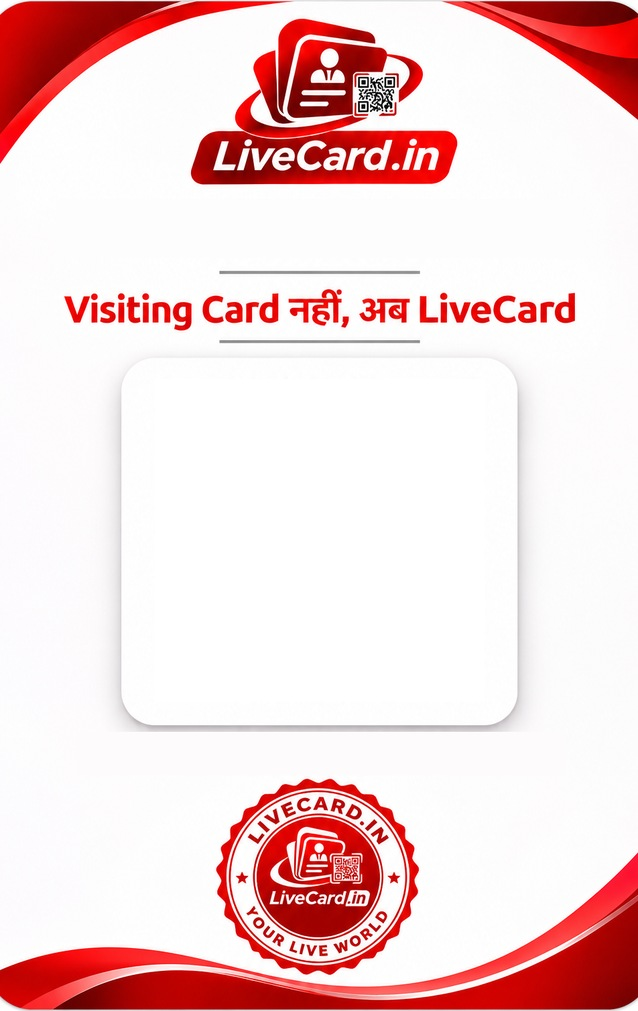
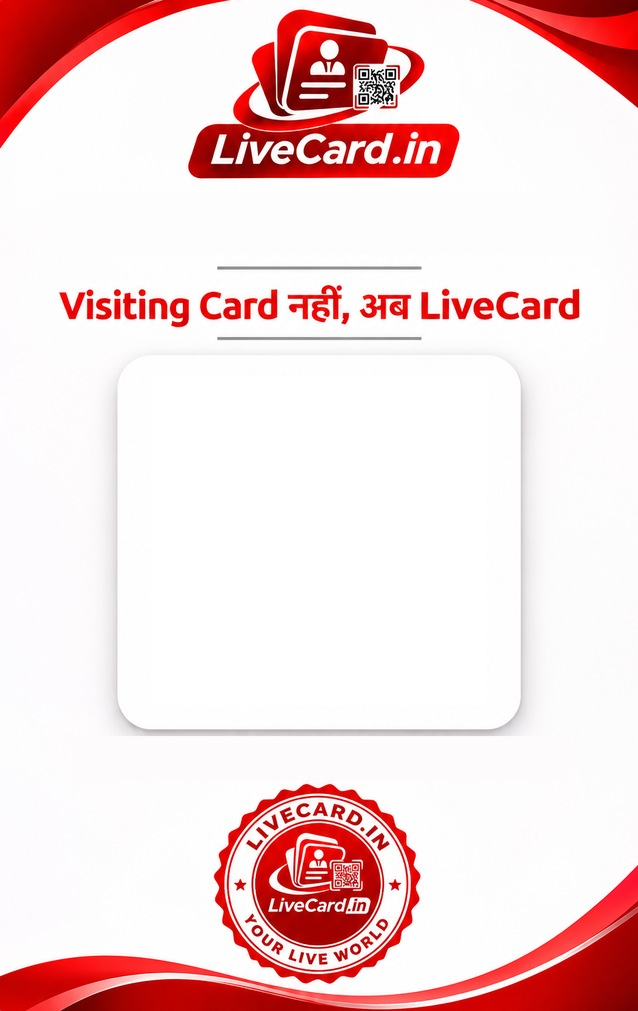
Print Card: clean edges/corners, smaller name/QR/link
Claude-Session: https://claude.ai/code/session_01LzXEQdxikn33sAgkPaq1Gs

diff --git a/public/studio/index.html b/public/studio/index.html
@@ -1314,7 +1314,7 @@ function qrFull(x){var o=document.getElementById('qrfull');if(o)o.remove();var u
   var ln=mk('div','',u.replace(/^https?:\/\//,'').replace('?src=qr',''));ln.style.cssText='font-size:14px;color:#666;word-break:break-all';bd.appendChild(ln);
   var st=document.createElement('img');st.src='/studio/livecard-stamp.png';st.alt='';st.style.cssText='width:96px;height:auto;margin-top:6px;opacity:.95';bd.appendChild(st);
   var dl=tb('⬇ QR डाउनलोड',function(){var du=cv.toDataURL('image/png');if(window.ViNative&&ViNative.save){var r='';try{r=ViNative.save(du.split(',')[1],'livecard-qr-'+Date.now())}catch(e){}dl.textContent=r?'✅ गैलरी में सेव हुआ':'❌ सेव नहीं हुआ';setTimeout(function(){dl.textContent='⬇ QR डाउनलोड'},2500);return}var a=document.createElement('a');a.href=du;a.download='livecard-qr.png';document.body.appendChild(a);a.click();a.remove()});dl.style.cssText+=';background:#fff;color:#d4141c;border:1.5px solid #d4141c;margin-top:4px';bd.appendChild(dl);var cw=mk('div','','Created with LiveCard.in');cw.style.cssText='font-size:15px;font-weight:800;color:#7a0a10;letter-spacing:.3px;margin:6px 0 14px';bd.appendChild(cw);
-  try{sb.rpc('studio_is_admin').then(function(r){if(!(r&&r.data===true))return;var pb=tb('📄 PDF (कार्ड साइज़) · Admin',async function(){pb.disabled=true;pb.textContent='⏳ बन रहा है…';try{if(!window.LCPrint){await new Promise(function(res,rej){var s2=document.createElement('script');s2.src='/studio/printcard.js?v=4';s2.onload=res;s2.onerror=rej;document.head.appendChild(s2)})}var rr2=await LCPrint.pdf([x],'livecard-'+x.slug);pb.textContent=rr2==='saved'?'✅ PDF सेव हुआ':rr2==='png'?'✅ गैलरी में सेव (फ़ोटो)':'❌ नहीं हुआ'}catch(e){pb.textContent='❌ नहीं हुआ'}pb.disabled=false;setTimeout(function(){pb.textContent='📄 PDF (कार्ड साइज़) · Admin'},3000)});pb.style.cssText+=';background:#7a0a10;margin-top:4px';bd.insertBefore(pb,dl.nextSibling);var pl=document.createElement('a');pl.href='/studio/printcard/';pl.textContent='🖨 सभी कार्ड प्रिंट करें';pl.style.cssText='color:#7a0a10;font-weight:700';bd.insertBefore(pl,pb.nextSibling)})}catch(e){}
+  try{sb.rpc('studio_is_admin').then(function(r){if(!(r&&r.data===true))return;var pb=tb('📄 PDF (कार्ड साइज़) · Admin',async function(){pb.disabled=true;pb.textContent='⏳ बन रहा है…';try{if(!window.LCPrint){await new Promise(function(res,rej){var s2=document.createElement('script');s2.src='/studio/printcard.js?v=5';s2.onload=res;s2.onerror=rej;document.head.appendChild(s2)})}var rr2=await LCPrint.pdf([x],'livecard-'+x.slug);pb.textContent=rr2==='saved'?'✅ PDF सेव हुआ':rr2==='png'?'✅ गैलरी में सेव (फ़ोटो)':'❌ नहीं हुआ'}catch(e){pb.textContent='❌ नहीं हुआ'}pb.disabled=false;setTimeout(function(){pb.textContent='📄 PDF (कार्ड साइज़) · Admin'},3000)});pb.style.cssText+=';background:#7a0a10;margin-top:4px';bd.insertBefore(pb,dl.nextSibling);var pl=document.createElement('a');pl.href='/studio/printcard/';pl.textContent='🖨 सभी कार्ड प्रिंट करें';pl.style.cssText='color:#7a0a10;font-weight:700';bd.insertBefore(pl,pb.nextSibling)})}catch(e){}
   o.appendChild(bd);document.body.style.overflow='hidden';document.body.appendChild(o)}
 function hqrInit(){var b=$('hqr');if(!b)return;b.hidden=!qrCard();b.onclick=function(){var x=qrCard();if(!x){alert('पहले कार्ड प्रकाशित करें।');return}qrFull(x)}}
 async function myHome(){try{hqrInit()}catch(e){}try{pfPlan()}catch(e){}try{pfSett()}catch(e){}try{$('pf-cardact').textContent=''}catch(e){}

diff --git a/public/studio/printcard.js b/public/studio/printcard.js
@@ -8,17 +8,17 @@ function rr(ctx,x,y,w,h,r){ctx.beginPath();ctx.moveTo(x+r,y);ctx.arcTo(x+w,y,x+w
 function nameOf(c){var t=String(c.title||'').trim();return (!t||/^(visiting\s*card|विज़िटिंग\s*कार्ड|विजिटिंग\s*कार्ड)$/i.test(t))?'LiveCard':t}
 async function draw(c){var cv=document.createElement('canvas');cv.width=W;cv.height=H;var x=cv.getContext('2d');
   var url='https://livecard.in/v/'+c.slug;
-  var bg=await img('/studio/livecard-card-front.jpg?v=2');
+  var bg=await img('/studio/livecard-card-front.jpg?v=3');
   if(bg)x.drawImage(bg,0,0,W,H);else{x.fillStyle='#fff';x.fillRect(0,0,W,H)}
   x.textAlign='center';x.textBaseline='middle';
-  var nm=nameOf(c);fit(x,nm,470,62,'800');x.fillStyle='#7a0a10';x.fillText(nm,W/2,230);
+  var nm=nameOf(c);fit(x,nm,440,50,'800');x.fillStyle='#7a0a10';x.fillText(nm,W/2,224);
   var q=document.createElement('canvas');window.StudioQR.draw(q,url,1200);var qx=q.getContext('2d'),qd=qx.getImageData(0,0,q.width,q.height).data,fx=0,mid=0;
   for(var yy=0;yy<q.height&&!fx;yy++){for(var xx=0;xx<q.width;xx++){if(qd[(yy*q.width+xx)*4]<128){fx=xx;mid=yy;break}}}
   var qz=fx||Math.round(q.width*4/41),inner=q.width-2*qz;
-  x.imageSmoothingEnabled=false;var qs=320;x.drawImage(q,qz,qz,inner,inner,(W-qs)/2,540-qs/2,qs,qs);x.imageSmoothingEnabled=true;
-  var ln=url.replace(/^https?:\/\//,'');fit(x,ln,390,38,'700');x.fillStyle='#333';x.fillText(ln,W/2,753);
+  x.imageSmoothingEnabled=false;var qs=292;x.drawImage(q,qz,qz,inner,inner,(W-qs)/2,541-qs/2,qs,qs);x.imageSmoothingEnabled=true;
+  var ln=url.replace(/^https?:\/\//,'');fit(x,ln,370,31,'700');x.fillStyle='#333';x.fillText(ln,W/2,757);
   return cv}
-var _bk=null;async function back(){if(_bk)return _bk;var b=await img('/studio/livecard-card-back.jpg?v=2');if(!b)return null;var cv=document.createElement('canvas');cv.width=W;cv.height=H;var x=cv.getContext('2d');
+var _bk=null;async function back(){if(_bk)return _bk;var b=await img('/studio/livecard-card-back.jpg?v=3');if(!b)return null;var cv=document.createElement('canvas');cv.width=W;cv.height=H;var x=cv.getContext('2d');
   x.translate(W/2,H/2);x.rotate(-Math.PI/2);x.drawImage(b,-H/2,-W/2,H,W);_bk=cv.toDataURL('image/jpeg',0.95);return _bk}
 function loadPdf(){return new Promise(function(res,rej){if(window.jspdf)return res(window.jspdf);var s=document.createElement('script');s.src='https://cdnjs.cloudflare.com/ajax/libs/jspdf/2.5.1/jspdf.umd.min.js';s.onload=function(){res(window.jspdf)};s.onerror=rej;document.head.appendChild(s)})}
 async function pdf(cards,name){var J=await loadPdf();var doc=new J.jsPDF({unit:'mm',format:[53.98,85.6],orientation:'portrait',compress:true});

diff --git a/public/studio/printcard/index.html b/public/studio/printcard/index.html
@@ -22,7 +22,7 @@ input[type=checkbox]{width:22px;height:22px;margin:0;flex:none}
 <main id="m"><p class="mut">लोड हो रहा है…</p></main>
 <div id="pv"></div>
 <script src="https://cdn.jsdelivr.net/npm/@supabase/supabase-js@2"></script>
-<script src="/studio/qr.js"></script><script src="/studio/printcard.js?v=4"></script>
+<script src="/studio/qr.js"></script><script src="/studio/printcard.js?v=5"></script>
 <script>
 (async function(){
 var $=function(i){return document.getElementById(i)},m=$('m');
